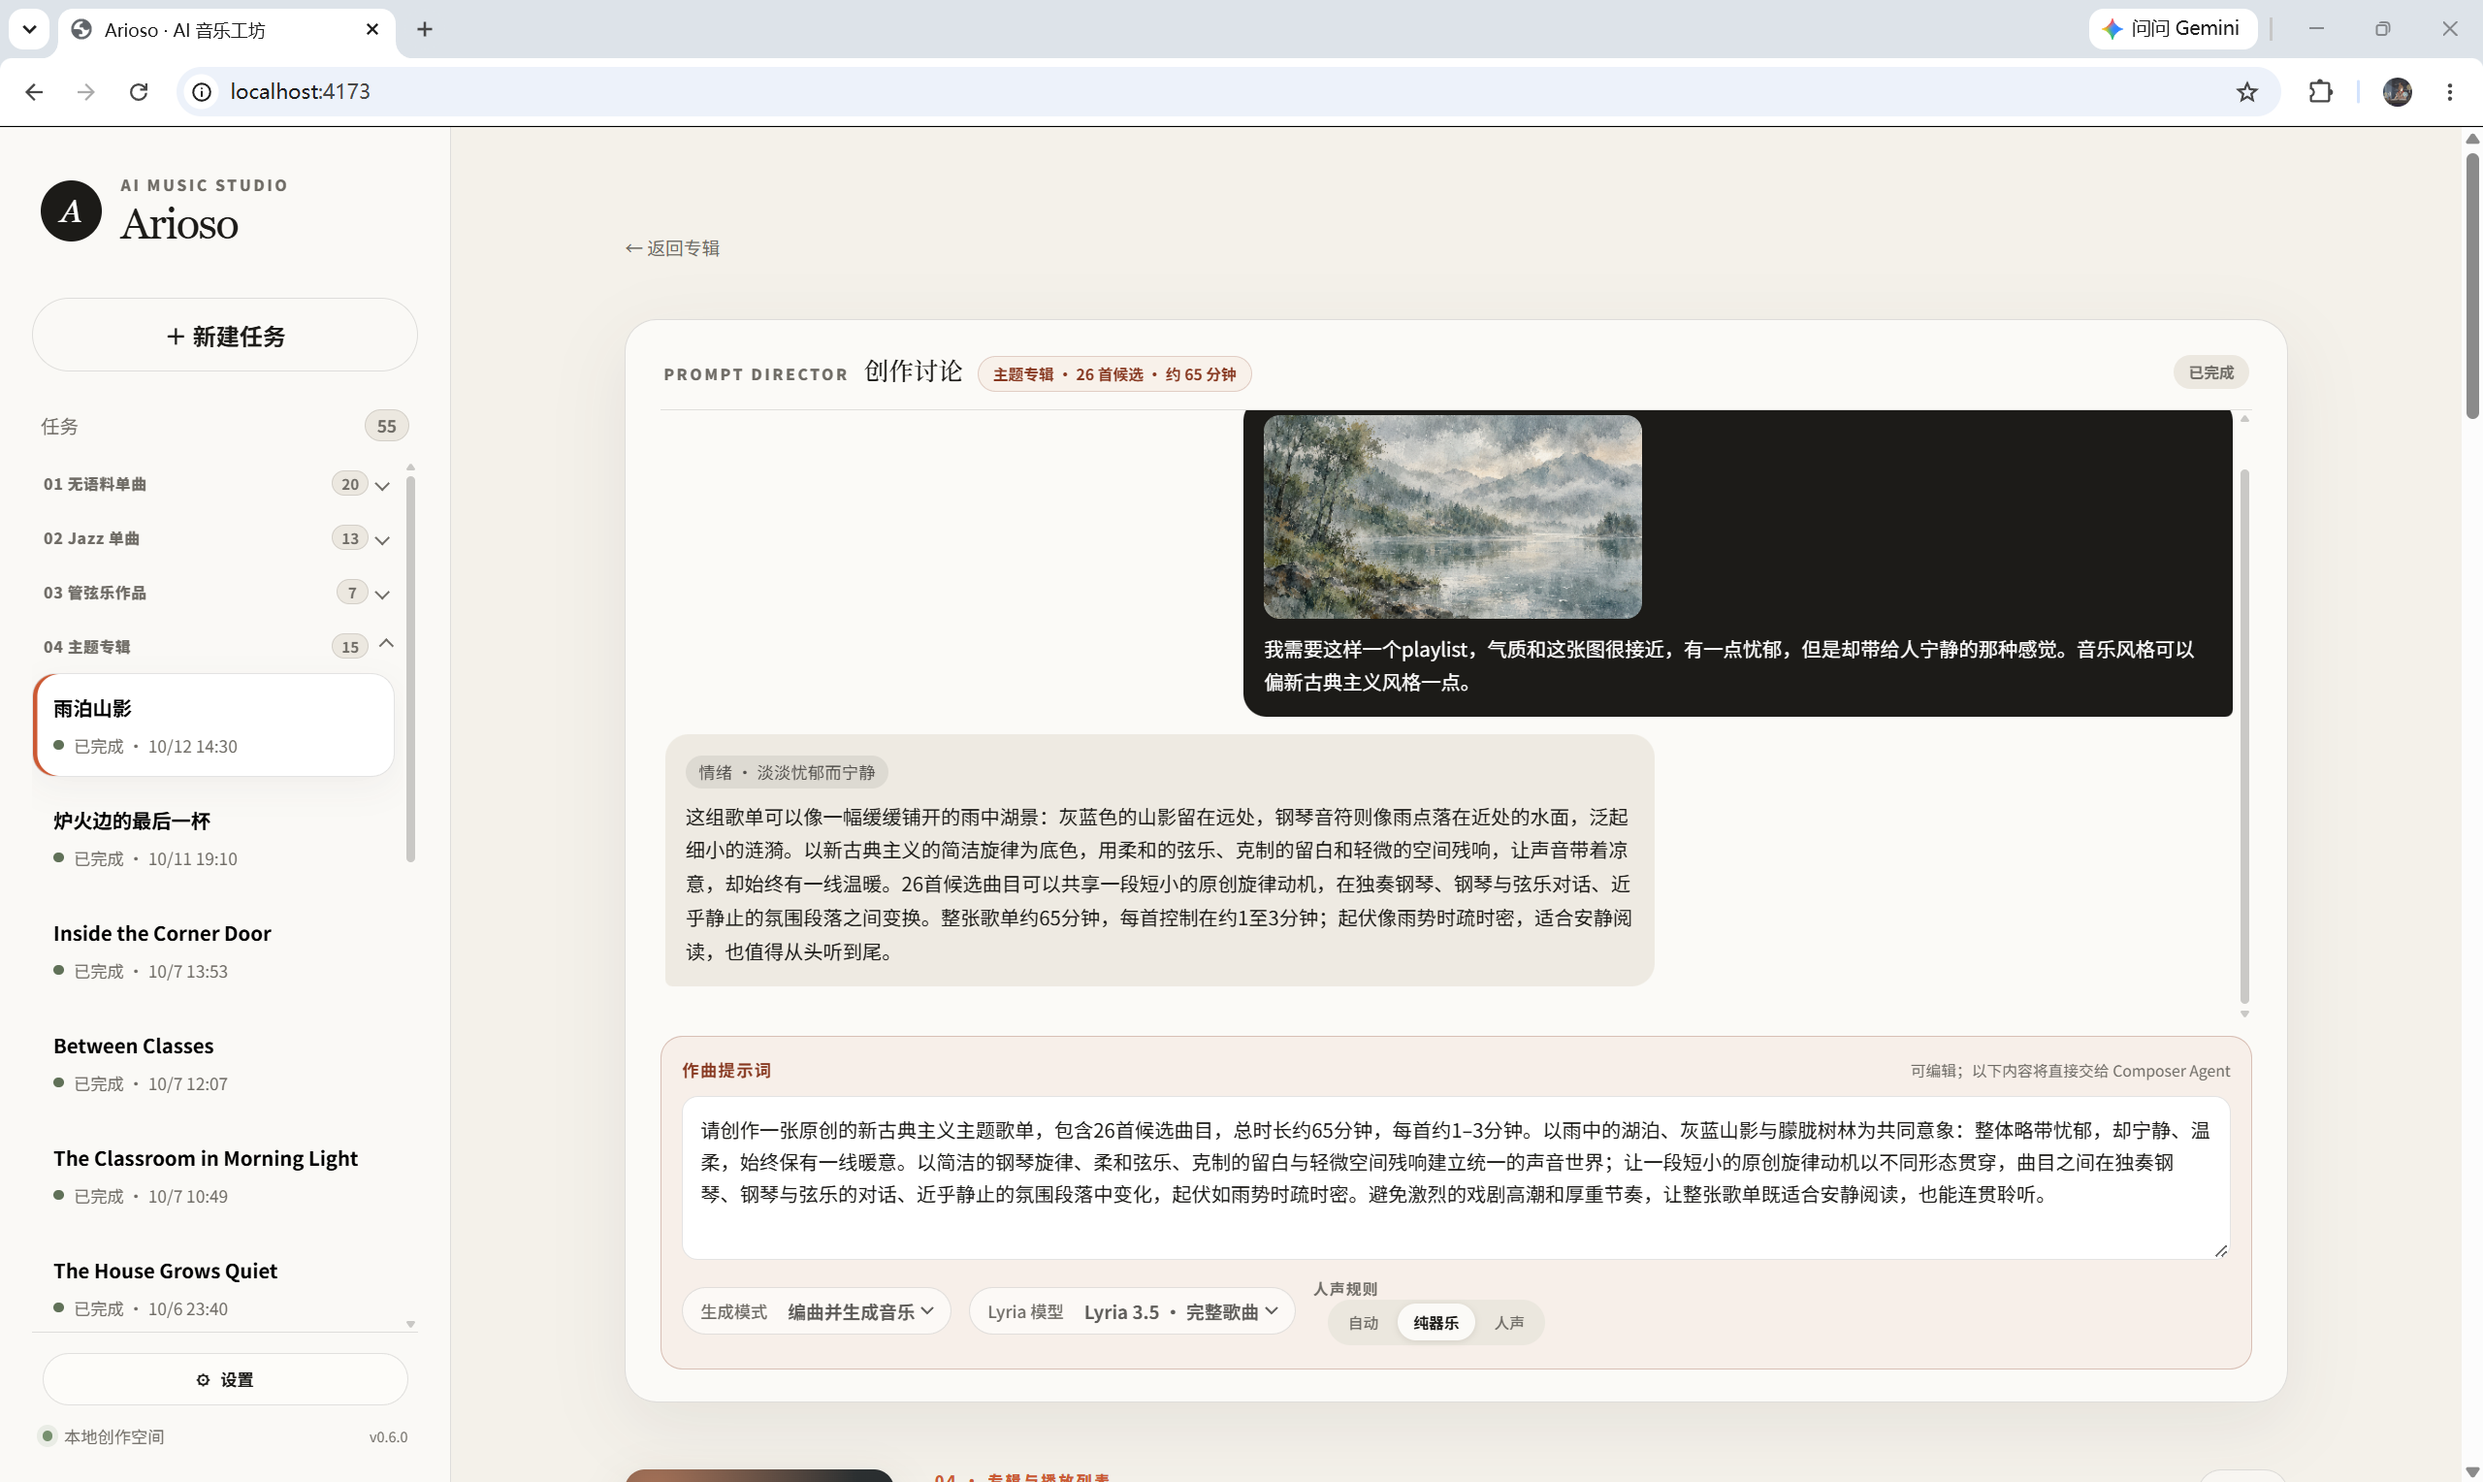
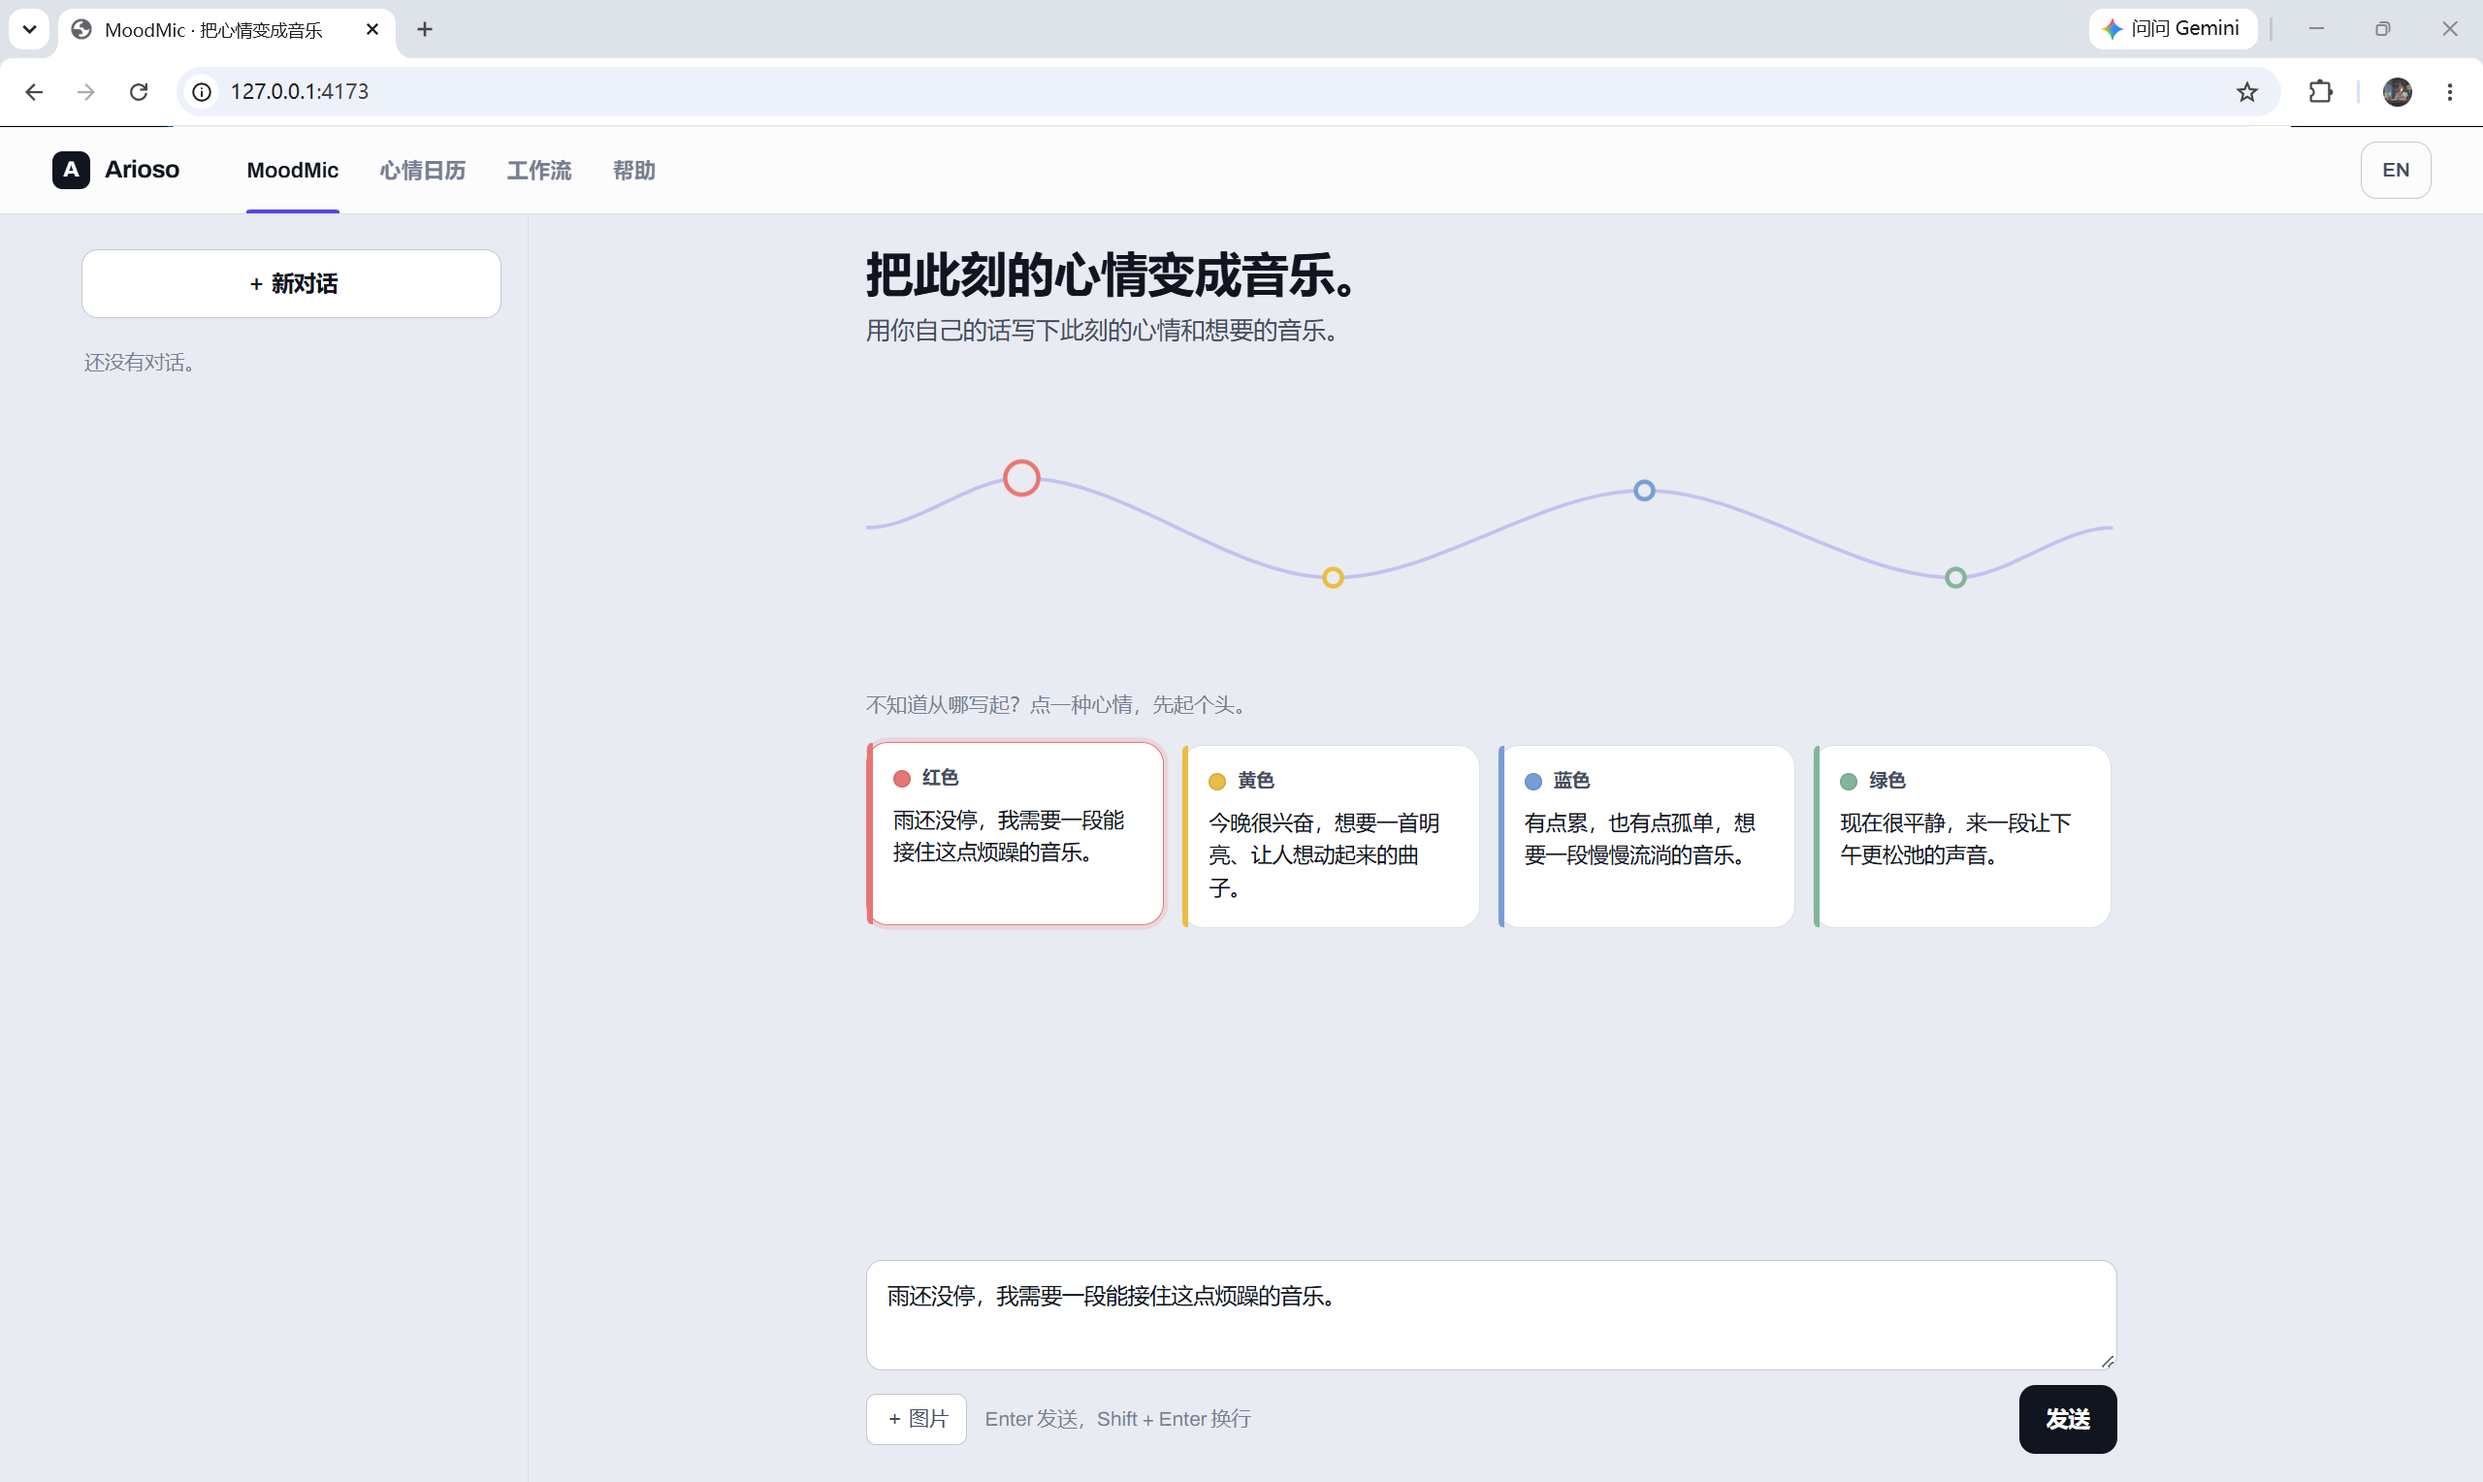
1013-HD6012 Main Interface Development v-0.7.0 to be tested.

diff --git a/web/app.js b/web/app.js
@@ -1838,7 +1838,13 @@ function renderDiscussion() {
   const parts = (session?.messages ?? []).map((message) => discussionMessageHtml(message, session));
   if (state.discussionPending) parts.push(pendingDiscussionMessageHtml(state.discussionPending));
   if (state.discussionThinking) parts.push(discussionTypingHtml());
-  elements.discussionMessages.innerHTML = parts.join("");
+  const list = elements.discussionMessages;
+  // Only follow the newest message when the reader is already at the bottom.
+  // Otherwise keep their position, so an update never yanks the list down.
+  const followBottom = list.childElementCount === 0
+    || list.scrollHeight - list.scrollTop - list.clientHeight <= 32;
+  const previousScrollTop = list.scrollTop;
+  list.innerHTML = parts.join("");
   const task = latestSessionTask(session);
   elements.discussionScope.textContent = discussionScopeLabel(session?.taskOptions);
   elements.discussionStatus.textContent = session
@@ -1853,7 +1859,7 @@ function renderDiscussion() {
   elements.generateProposal.disabled = !session?.messages?.some((message) => message.role === "user") || state.submitting;
   if (session) elements.form.hidden = session.status === "submitted";
   if (parts.length) {
-    elements.discussionMessages.scrollTop = elements.discussionMessages.scrollHeight;
+    list.scrollTop = followBottom ? list.scrollHeight : previousScrollTop;
   }
   renderProposalSettings();
 }

diff --git a/web/workflow.html b/web/workflow.html
@@ -51,7 +51,7 @@
           </button>
           <span class="status-dot"></span>
           <span data-i18n="localWorkspace">本地创作空间</span>
-          <small id="app-version">v0.6.0</small>
+          <small id="app-version">v0.7.0</small>
         </div>
       </aside>
 

diff --git a/README.md b/README.md
@@ -1,35 +1,65 @@
 # Arioso
 
-Arioso is an agentic tool for music composition. It turns a
-musical idea into a structured plan, uses optional corpus knowledge to refine
-that plan, and can send the resulting prompt to Google Lyria for audio
-generation.
+Arioso turns a musical idea into finished music. Describe what you want in
+plain words, refine it in conversation, and Arioso plans the piece and
+generates the audio — from a single track to a full album.
 
-Arioso now supports four workflows through a bilingual browser interface
-and a command-line interface:
+Arioso ships as a bilingual browser studio and a command-line interface, and
+supports four ways to create music:
 
 - general composition from a free-form brief;
-- Jazz composition with local corpus retrieval;
+- Jazz composition in the style of the standards;
 - coherent multi-movement orchestral works; and
 - multi-track albums with candidate review, playlist ordering, playback, and
   MP3 export.
 
-Creative Discussion and MoodMic add a mood-aware front end to these workflows:
-use the Prompt Director to develop an idea through discussion, optional image
-references, and mood cues, then approve the resulting proposal before
-composition.
+MoodMic is a mood-aware starting point for these workflows: develop an idea
+through creative discussion, optional image references, and mood cues, then
+approve the resulting proposal before composition. Every check-in is recorded
+on a mood calendar, so you can look back at a feeling and reopen the music it
+produced.
 
 ## Interface
 
-### Four Specific Workflow 
-![Arioso browser interface](Assets/arioso-web-interface.png)
+Arioso runs as a bilingual web studio (简体中文 / English) alongside the
+command line. The browser interface has four tabs: **MoodMic**, **Mood
+calendar**, **Workflows**, and **Help**.
 
-### Mood + Music
-![Mood + Music support](Assets/arioso-moodmic.png)
+### Workflows
+
+The Workflows tab opens on four ways to create music — one piece from the
+model's own knowledge, a Jazz piece grounded in the standards, a multi-movement
+orchestral work, and a multi-track album. Each is a card marked with its own
+colour; entering one opens that workflow's composer.
+
+![Arioso workflow studio](Assets/arioso-workflow.png)
+
+The album workflow walks an idea through creative discussion before composition,
+then lines up the generated candidates as a playlist you can audition and
+export.
+
+![Arioso album and playlist workflow](Assets/arioso-playlist.png)
+
+### MoodMic
+
+MoodMic turns how you feel right now into a single piece. Describe the feeling
+in everyday words; once a direction is agreed, a mood is read out — a colour
+and a word — which you can change before creating. On an empty conversation you
+can start from four example feelings, one per mood colour; picking one fills
+the composer, and the same four colours carry through the interface and the
+mood calendar.
+
+![MoodMic](Assets/arioso-moodmic.png)
+
+### Mood calendar
+
+Every check-in from MoodMic is marked on a month grid with the colour of that
+day's feeling, in the order the entries were made. Pick a day to read it back
+and reopen the conversation behind it.
 
 ## Workflow
 
-![Arioso current workflow](Assets/arioso-current-workflow.png)
+![Arioso agentic workflow](Assets/arioso-agentic-workflow.png)
 
 ## Example output
 
